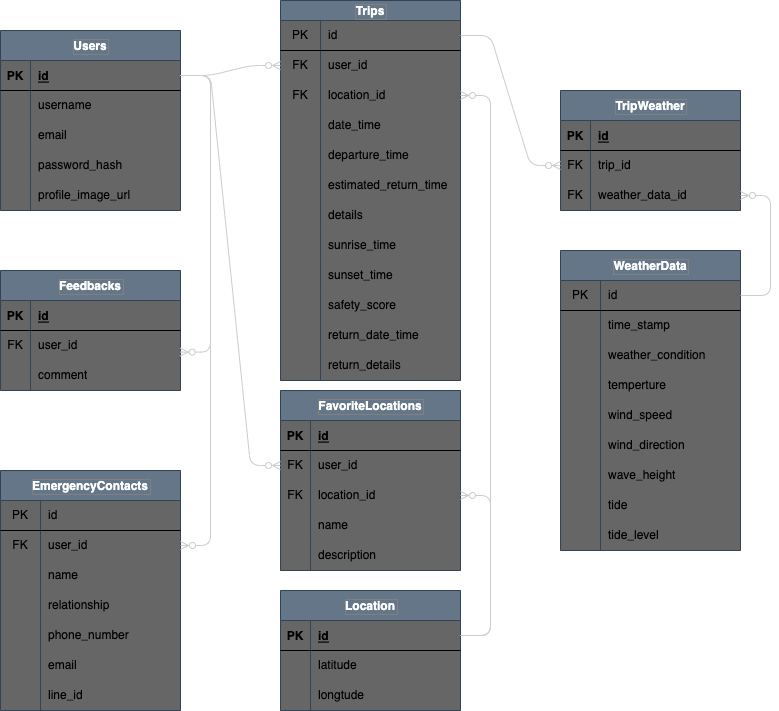
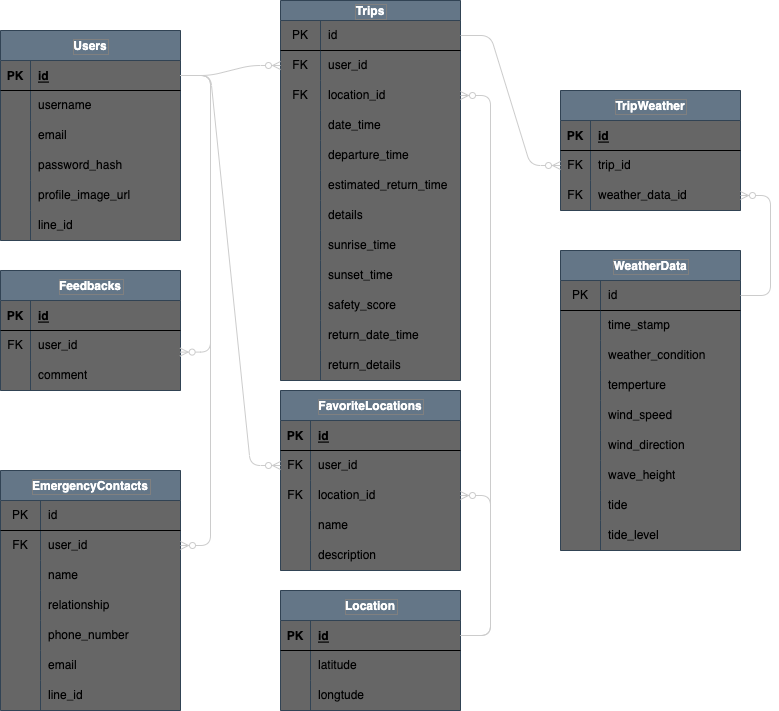
気象周りの作り直し

Changed region(s): [[0.0, 0.2785, 0.2465, 0.3404]]

diff --git a/開発設計書/DB/table.md b/開発設計書/DB/table.md
@@ -2,50 +2,55 @@
 
 ## Users (ユーザー情報)
 
-| Field             | Type         | Description         | Constraints          |
-|-------------------|--------------|---------------------|----------------------|
-| `user_id`         | INT          | ユーザーの一意識別子 | PK, AI, UQ           |
-| `username`        | VARCHAR(255) | ユーザー名           | NN                   |
-| `email`           | VARCHAR(255) | メールアドレス       | UQ, NN               |
-| `password_hash`   | VARCHAR(255) | パスワードのハッシュ値 | NN                 |
-| `profile_image_url` | VARCHAR(255) | プロフィール画像のURL | NULL許容           |
+| Field               | Type          | Description         | Constraints          |
+|---------------------|---------------|---------------------|----------------------|
+| `user_id`           | INT           | ユーザーの一意識別子 | PK, AI, UQ           |
+| `username`          | VARCHAR(255)  | ユーザー名          | NN                   |
+| `email`             | VARCHAR(255)  | メールアドレス      | UQ, NN               |
+| `password_hash`     | VARCHAR(255)  | パスワードのハッシュ値 | NN                |
+| `profile_image_url` | VARCHAR(255)  | プロフィール画像のURL | NULL許容           |
+| `line_id`           | VARCHAR(255)  | ラインのID          | NULL許容             |
+
 
 ---
 
 ## Locations (地点)
 
-| Field            | Type          | Description       | Constraints          |
-|------------------|---------------|-------------------|----------------------|
-| `location_id`    | INT           | 地点の一意識別子   | PK, AI, UQ           |
-| `latitude`       | DECIMAL(10, 8)| 緯度               | NN                   |
-| `longitude`      | DECIMAL(11, 8)| 経度               | NN                   |
+| Field          | Type          | Description       | Constraints          |
+|----------------|---------------|-------------------|----------------------|
+| `location_id`  | INT           | 地点の一意識別子   | PK, AI, UQ           |
+| `latitude`     | DECIMAL(10, 8)| 緯度              | NN                   |
+| `longitude`    | DECIMAL(11, 8)| 経度              | NN                   |
+
 
 ## FavoriteLocations (お気に入り地点)
 
-| Field          | Type        | Description            | Constraints            |
-|----------------|-------------|------------------------|------------------------|
-| `favorite_id`  | INT         | お気に入りの一意識別子  | PK, AI, UQ             |
-| `user_id`      | INT         | ユーザーの一意識別子    | FK                     |
-| `location_id`  | INT         | 地点の一意識別子        | FK                     |
-| `name`           | VARCHAR(255)  | 地点の名称         | NN                   |
-| `description`    | TEXT          | 地点の説明         | NULL許容            |
+| Field         | Type          | Description            | Constraints         |
+|---------------|---------------|------------------------|---------------------|
+| `favorite_id` | INT           | お気に入りの一意識別子  | PK, AI, UQ          |
+| `user_id`     | INT           | ユーザーの一意識別子    | FK                  |
+| `location_id` | INT           | 地点の一意識別子        | FK                  |
+| `name`        | VARCHAR(255)  | 地点の名称             | NN                  |
+| `description` | TEXT          | 地点の説明             | NULL許容            |
+
 
 ## Trips (出船スケジュール)
 
-| Field            | Type          | Description       | Constraints          |
-|------------------|---------------|-------------------|----------------------|
-| `trip_id`        | INT           | 出船予定の一意識別子 | PK, AI, UQ          |
-| `user_id`        | INT           | ユーザーのID       | FK                   |
-| `location_id`    | INT           | 地点のID           | FK                   |
-| `departure_time`      | DATETIME | 出発時刻           | NN                   |
-| `estimated_return_time` | DATETIME | 予定帰投時刻      | NN                   |
-| `details`        | TEXT          | 予定の詳細情報      | NULL許容            |
-| `safety_score`   | INT           | 安全スコア         | NULL許容            |
-| `sunrise_time`       | DATETIME         | 日の出時刻               | NULL許容               |
-| `sunset_time`       | DATETIME         | 日の入り時刻               | NULL許容               |
-| `return_time`    | DATETIME    | 帰投時刻                   | NULL許容                    |
-| `return_details` | TEXT        | 帰投に関する詳細情報       | NULL許容               |
+| Field                   | Type     | Description           | Constraints     |
+|-------------------------|----------|-----------------------|-----------------|
+| `trip_id`               | INT      | 出船予定の一意識別子   | PK, AI, UQ      |
+| `user_id`               | INT      | ユーザーのID          | FK              |
+| `location_id`           | INT      | 地点のID              | FK              |
+| `departure_time`        | DATETIME | 出発時刻              | NN              |
+| `estimated_return_time` | DATETIME | 予定帰投時刻          | NN              |
+| `details`               | TEXT     | 予定の詳細情報        | NULL許容        |
+| `safety_score`          | INT      | 安全スコア            | NULL許容        |
+| `sunrise_time`          | DATETIME | 日の出時刻            | NULL許容        |
+| `sunset_time`           | DATETIME | 日の入り時刻          | NULL許容        |
+| `return_time`           | DATETIME | 帰投時刻              | NULL許容        |
+| `return_details`        | TEXT     | 帰投に関する詳細情報  | NULL許容        |
 
+---
 ## EmergencyContacts (緊急連絡先情報)
 
 | Field            | Type          | Description       | Constraints          |
@@ -59,39 +64,70 @@
 | `line_id`        | VARCHAR(255)  | ラインのID         | NULL許容, 検討中    |
 
 ---
+## WeatherData(気象データ)
+| Field                | Type           | Description                                       | Constraints            |
+|----------------------|----------------|---------------------------------------------------|------------------------|
+| `time`               | TIMESTAMP      | UTCのタイムスタンプ                               | NOT NULL               |
+| `airTemperature`     | FLOAT          | 気温（摂氏）                                      |                        |
+| `pressure`           | FLOAT          | 気圧 (hPa)                                        |                        |
+| `cloudCover`         | INT            | 合計クラウド カバレッジ (パーセント)              | BETWEEN 0 AND 100      |
+| `gust`               | FLOAT          | 突風（メートル/秒）                               |                        |
+| `humidity`           | INT            | 相対湿度 (パーセント)                             | BETWEEN 0 AND 100      |
+| `precipitation`      | FLOAT          | 平均降水量 (kg/m²/h) = mm/h                       |                        |
+| `swellDirection`     | FLOAT          | うねり波の方向                                    | BETWEEN 0 AND 360      |
+| `swellHeight`        | FLOAT          | うねりの波の高さ（メートル）                      |                        |
+| `swellPeriod`        | FLOAT          | うねり波の周期（秒）                              |                        |
+| `visibility`         | FLOAT          | 水平視程（km）                                    |                        |
+| `waterTemperature`   | FLOAT          | 水温（摂氏）                                      |                        |
+| `waveDirection`      | FLOAT          | 風とうねり波が合わさった方向                     | BETWEEN 0 AND 360      |
+| `waveHeight`         | FLOAT          | 風とうねりを合わせたかなりの高さ（メートル単位） |                        |
+| `wavePeriod`         | FLOAT          | 風とうねりを合わせた波の周期（秒）               |                        |
+| `windWaveDirection`  | FLOAT          | 風波の方向                                        | BETWEEN 0 AND 360      |
+| `windWaveHeight`     | FLOAT          | 風波の高さ (メートル)                             |                        |
+| `windWavePeriod`     | FLOAT          | 風波の周期（秒）                                  |                        |
+| `windDirection`      | FLOAT          | 海抜10mにおける風向き                             | BETWEEN 0 AND 360      |
+| `windSpeed`          | FLOAT          | 海抜 10 メートルにおける風速 (メートル/秒)        |                        |
 
-## WeatherData (気象データ)
-
-| Field              | Type          | Description             | Constraints            |
-|--------------------|---------------|-------------------------|------------------------|
-| `weather_data_id`  | INT           | 天気データの一意識別子   | PK, AI, UQ             |
-| `weather_condition`| VARCHAR(255)  | 天気の状態              | NN                    |
-| `timestamp`        | DATETIME      | 観測日時                 | NN                     |
-| `temperature`      | FLOAT         | 気温（°C）              | NN                      |
-| `wind_speed`       | FLOAT         | 風速（m/s）             | NN                     |
-| `wind_direction`   | VARCHAR(255)  | 風向                   | NN                     |
-| `wave_height`      | FLOAT         | 波の高さ（m）           | NN                     |
-| `tide`             | VARCHAR(255)  | 潮の状態                | NULL許容               |
-| `tide_level`       | FLOAT         | 潮位（m）               | NULL許容               |
 
 ## TripWeather (トリップと気象予報の関連)
 
-| Field                | Type          | Description                     | Constraints            |
-|----------------------|---------------|---------------------------------|------------------------|
-| `trip_weather_id`   | INT           | トリップと気象の関連ID      | PK, AI, UQ             |
-| `trip_id`            | INT           | トリップの一意識別子            | FK                     |
-| `weather_data_id`   | INT           | 気象データの一意識別子      | FK                     |
+| Field            | Type          | Description              | Constraints         |
+|------------------|---------------|--------------------------|---------------------|
+| `trip_weather_id`| INT           | トリップと気象の関連ID   | PK, AI, UQ          |
+| `trip_id`        | INT           | トリップの一意識別子     | FK                  |
+| `weather_data_id`| INT           | 気象データの一意識別子   | FK                  |
+
+---
+
+## タイドデータ (TideData)
+
+| Field         | Type         | Description           | Constraints    |
+|---------------|--------------|-----------------------|----------------|
+| `tide_id`     | INT          | タイドデータの一意識別子 | PK, AI, UQ    |
+| `location_id` | INT          | 地点のID              | FK             |
+| `time`        | DATETIME     | 潮の状態の時刻         | NN             |
+| `type`        | VARCHAR(10)  | 潮の状態（満潮または干潮） | NN          |
+| `height`      | FLOAT        | 潮の高さ (メートル)    | NN             |
+
+## トリップとタイドデータの関連 (TripTide)
+
+| Field         | Type         | Description              | Constraints    |
+|---------------|--------------|--------------------------|----------------|
+| `trip_tide_id`| INT          | トリップとタイドの関連ID | PK, AI, UQ     |
+| `trip_id`     | INT          | トリップの一意識別子     | FK             |
+| `tide_id`     | INT          | タイドデータの一意識別子  | FK             |
 
 ---
 
 ## Feedbacks (フィードバック)
 
-| Field            | Type          | Description       | Constraints          |
-|------------------|---------------|-------------------|----------------------|
-| `feedback_id`    | INT           | フィードバックの一意識別子 | PK, AI, UQ       |
-| `title`          | TEXT          | お問い合わせ件名         | NN               |
-| `comment`        | TEXT          | コメント           | NN                   |
-| `user_id`        | INT           | ユーザーのID       | FK                   |
+| Field          | Type         | Description           | Constraints        |
+|----------------|--------------|-----------------------|--------------------|
+| `feedback_id`  | INT          | フィードバックの一意識別子 | PK, AI, UQ       |
+| `title`        | TEXT         | お問い合わせ件名      | NN                |
+| `comment`      | TEXT         | コメント              | NN                |
+| `user_id`      | INT          | ユーザーのID          | FK                |
+
 
 
 ![alt text](ER.png)ge
